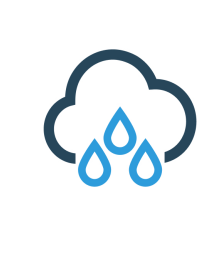
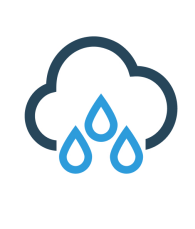
small changes

Changed region(s): [[0.1231, 0.1528, 0.9231, 0.7642]]

diff --git a/weatherPage.css b/weatherPage.css
@@ -13,6 +13,10 @@ div {
     margin-right: 150px;
     display: inline-block;
     text-align: center;
+    padding-left: 50px;
+    padding-right: 50px;
+    padding-top: 20px;
+    padding-bottom: 20px;
 }
 footer{
     margin-top: 1.6em;
